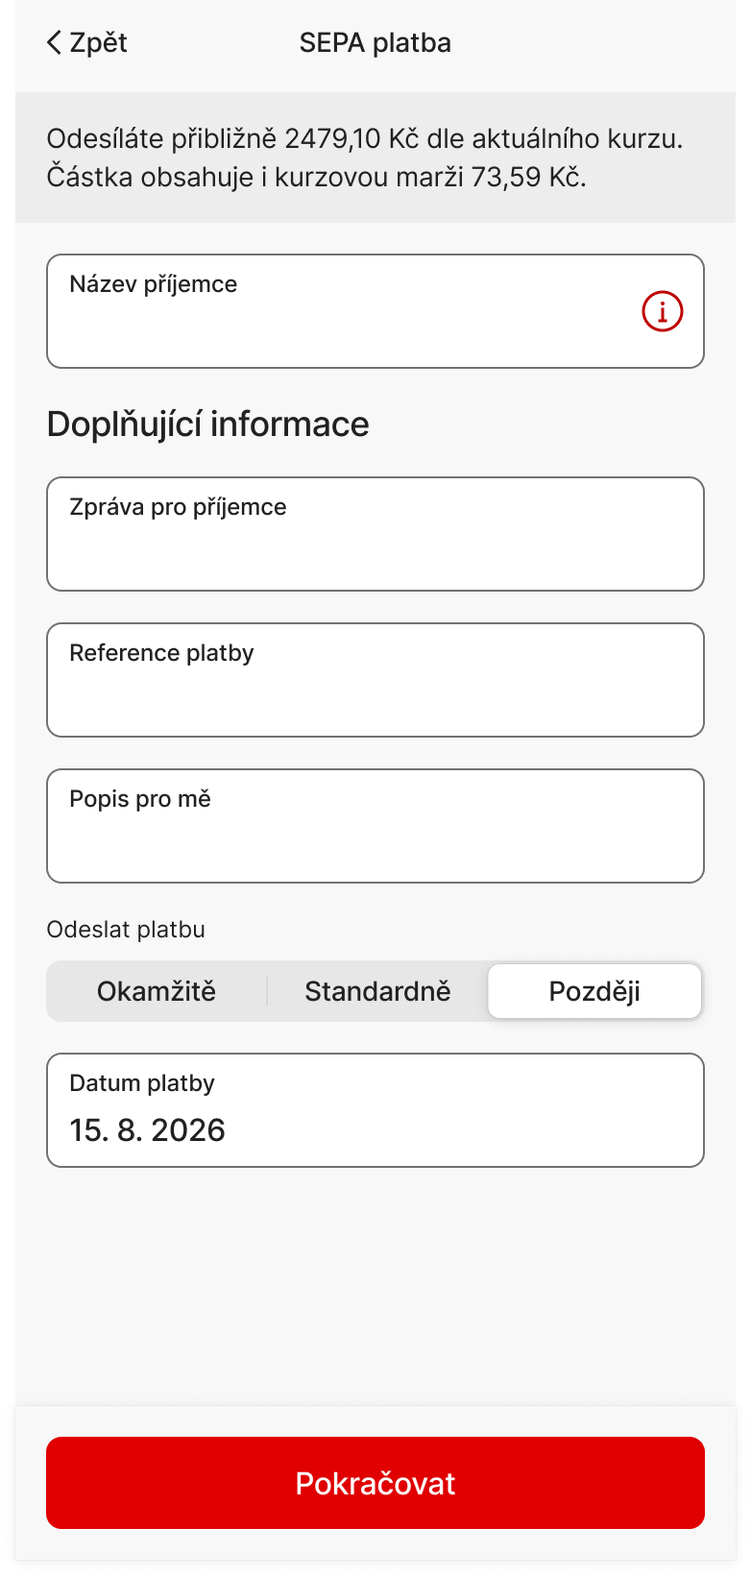
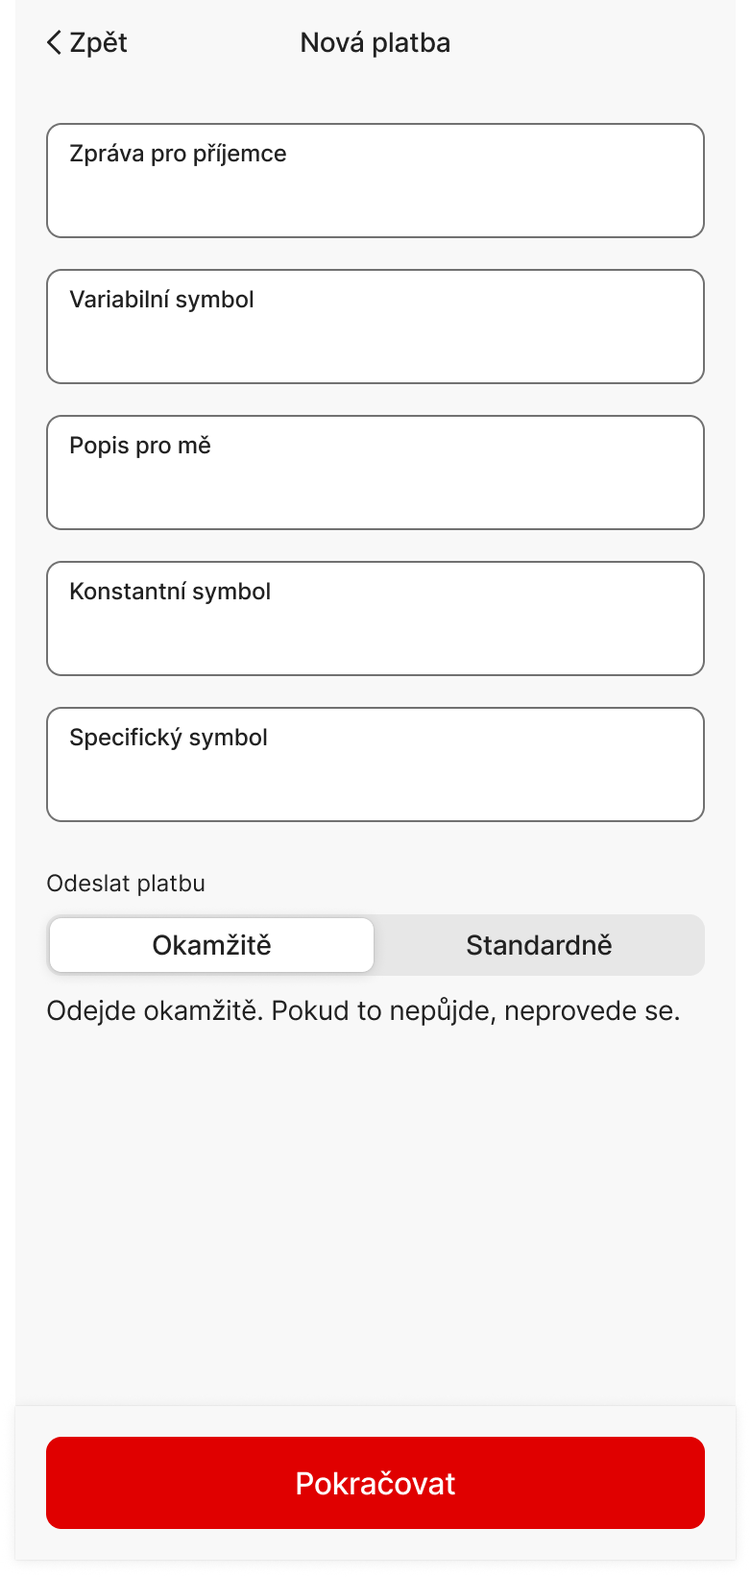
docs: reassess instant payment controls

diff --git a/Platby/Okamžité platby/index.html b/Platby/Okamžité platby/index.html
@@ -63,8 +63,8 @@
     .variant-body{display:grid;grid-template-columns:minmax(0,1.25fr) minmax(310px,.75fr);gap:0}
     .shots{padding:24px;border-right:1px solid var(--color-background-divider);min-width:0}
     .shot-strip{display:flex;gap:12px;overflow:auto;padding:2px 2px 12px;scroll-snap-type:x mandatory;scrollbar-color:var(--color-background-border) transparent}
-    .shot-btn{padding:0;border:0;background:none;cursor:zoom-in;scroll-snap-align:start;flex:0 0 min(280px,72vw);border-radius:var(--radius-md);overflow:hidden;box-shadow:var(--shadow-panel)}
-    .shot-btn img{width:100%;height:auto;display:block;background:#f7f7f7}
+    .shot-btn{padding:0;border:0;background:#f7f7f7;cursor:zoom-in;scroll-snap-align:start;flex:0 0 min(280px,72vw);aspect-ratio:782/1642;border-radius:var(--radius-md);overflow:hidden;box-shadow:var(--shadow-panel)}
+    .shot-btn img{width:100%;height:100%;object-fit:contain;object-position:top;display:block;background:#f7f7f7}
     .shot-count{font-size:12px;color:var(--color-content-tertiary);margin-top:8px}
     .assessment{padding:24px;display:grid;gap:24px;align-content:start}
     .pm h4,.fit h4{font-size:12px;line-height:16px;text-transform:uppercase;letter-spacing:.06em;margin:0 0 10px;color:var(--color-content-tertiary)}
@@ -81,7 +81,7 @@
     .phone-stage{background:#e7e7e7;padding:24px;border-radius:var(--radius-md);position:relative}
     .phone{width:min(390px,100%);margin:0 auto;background:var(--color-background-body);border:8px solid #1f1f1f;border-radius:36px;overflow:hidden;min-height:650px;box-shadow:0 22px 50px rgba(0,0,0,.16);position:relative}
     .phone-head{height:52px;display:grid;grid-template-columns:1fr auto 1fr;align-items:center;padding:0 16px;background:var(--color-background-body)}.phone-head button{border:0;background:transparent;padding:8px 0;text-align:left}.phone-head strong{font-size:17px;font-weight:500}.phone-content{padding:18px 16px 116px}.field{width:100%;background:var(--color-background-surface);border:1px solid var(--color-background-border);border-radius:var(--radius-md);padding:12px 14px;text-align:left;display:flex;align-items:center;justify-content:space-between;gap:14px;min-height:68px;color:var(--color-content-primary)}.field-label{display:block;font-size:12px;color:var(--color-content-tertiary);margin-bottom:2px}.field-value{display:block;font-size:17px;line-height:24px;font-weight:500}.chev{font-size:22px;color:var(--color-content-tertiary)}
-    .explain{font-size:13px;line-height:19px;color:var(--color-content-secondary);margin:10px 2px 18px}.safety{display:flex;align-items:flex-start;justify-content:space-between;gap:14px;background:var(--color-background-surface);border:1px solid var(--color-background-border);border-radius:var(--radius-md);padding:14px}.safety strong{font-size:15px;line-height:21px;display:block}.safety span{font-size:12px;line-height:17px;color:var(--color-content-tertiary);display:block;margin-top:3px}.switch{position:relative;flex:0 0 auto;width:48px;height:28px;border:0;border-radius:999px;background:var(--color-background-border);padding:0;transition:.18s}.switch::after{content:"";position:absolute;width:22px;height:22px;background:#fff;border-radius:50%;top:3px;left:3px;box-shadow:0 1px 4px rgba(0,0,0,.22);transition:.18s}.switch[aria-checked="true"]{background:var(--color-interactive-primary)}.switch[aria-checked="true"]::after{transform:translateX(20px)}
+    .explain{font-size:13px;line-height:19px;color:var(--color-content-secondary);margin:10px 2px 18px}
     .phone-bottom{position:absolute;left:0;right:0;bottom:0;padding:14px 16px 20px;background:var(--color-background-surface);box-shadow:var(--shadow-panel)}.primary{width:100%;height:48px;border:0;border-radius:var(--radius-md);background:var(--color-interactive-primary);color:var(--color-interactive-on-primary);font-weight:500}
     .sheet{position:absolute;inset:0;background:rgba(0,0,0,.34);display:flex;align-items:flex-end;z-index:4;opacity:0;pointer-events:none;transition:.18s}.sheet.open{opacity:1;pointer-events:auto}.sheet-card{width:100%;background:var(--color-dialog-surface);border-radius:20px 20px 0 0;padding:8px 16px 24px;transform:translateY(24px);transition:.18s}.sheet.open .sheet-card{transform:none}.grab{width:36px;height:4px;border-radius:3px;background:var(--color-background-border);margin:0 auto 18px}.sheet h4{font-size:20px;line-height:28px;margin:0 0 10px}.option{width:100%;border:0;border-top:1px solid var(--color-background-divider);background:transparent;padding:14px 0;display:grid;grid-template-columns:1fr auto;text-align:left;gap:12px}.option:first-of-type{border-top:0}.option strong{display:block;font-size:16px;line-height:22px}.option span{display:block;color:var(--color-content-tertiary);font-size:12px;line-height:17px;margin-top:2px}.radio{width:22px;height:22px;border-radius:50%;border:2px solid var(--color-background-border);margin-top:2px}.option.selected .radio{border:6px solid var(--color-interactive-primary)}.date-box{display:none;margin:4px 0 14px}.date-box.show{display:block}.date-box label{display:block;font-size:12px;color:var(--color-content-tertiary);margin-bottom:6px}.date-box input{width:100%;height:48px;border:1px solid var(--color-background-border);border-radius:var(--radius-md);background:var(--color-background-surface);padding:0 12px;color:var(--color-content-primary)}
 
@@ -110,8 +110,8 @@
     <div class="hero">
       <div class="wrap">
         <p class="eyebrow">Design review · 31. 7. 2026</p>
-        <h1>Tři scénáře.<br>Dvě rozhodnutí.</h1>
-        <p class="hero-copy">Uživatel ve skutečnosti nerozhoduje mezi třemi technickými typy platby. Rozhoduje <strong>kdy</strong> má platba odejít a <strong>co se má stát, když okamžité odeslání selže</strong>.</p>
+        <h1>Tři scénáře.<br>Jeden výběr.</h1>
+        <p class="hero-copy">Uživatel potřebuje vybrat výsledné chování platby. Interní závislost mezi datem, okamžitým zpracováním a fallbackem nemá řešit dvěma propojenými ovladači.</p>
         <div class="thesis" aria-label="Požadované scénáře">
           <article class="thesis-item"><span class="thesis-no">01</span><strong>Pouze okamžitě</strong><p>Buď dorazí během několika sekund, nebo se vůbec neprovede.</p></article>
           <article class="thesis-item"><span class="thesis-no">02</span><strong>Co nejdříve</strong><p>Nejdřív okamžitě. Když to nejde, automaticky standardně.</p></article>
@@ -124,7 +124,7 @@
       <div class="wrap">
         <div class="section-head"><h2>Vzorové persony</h2><p>Persony pokrývají běžnou platbu, časově kritickou platbu a plánování. Nejsou výsledkem terénního výzkumu; slouží jako konzistentní hodnoticí optika návrhů.</p></div>
         <div class="persona-grid">
-          <article class="persona"><div class="persona-top"><div class="avatar" aria-hidden="true">J</div><div><h3>Jana, 32</h3><div class="persona-role">Příležitostná uživatelka</div></div></div><dl><dt>Cíl</dt><dd>Zaplatit rychle bez přemýšlení o bankovním zpracování.</dd><dt>Chování</dt><dd>Platby zadává několikrát měsíčně. Nezná rozdíl mezi okamžitou a standardní platbou.</dd><dt>Riziko</dt><dd>„Standardně“ může chápat jako doporučenou nebo nejbezpečnější volbu.</dd></dl><p class="persona-quote">„Pošli to co nejrychleji a hlavně mě nezdržuj.“</p></article>
+          <article class="persona"><div class="persona-top"><div class="avatar" aria-hidden="true">J</div><div><h3>Jana, 32</h3><div class="persona-role">Příležitostná uživatelka</div></div></div><dl><dt>Cíl</dt><dd>Zaplatit rychle bez přemýšlení o bankovním zpracování.</dd><dt>Chování</dt><dd>Platby zadává několikrát měsíčně. Nezná rozdíl mezi okamžitou a standardní platbou.</dd><dt>Riziko</dt><dd>Pokud vidí „Co nejdříve“ a vedle toho switch „Okamžitá platba“, oba ovladače jí slibují totéž.</dd></dl><p class="persona-quote">„Pošli to co nejrychleji a hlavně mě nezdržuj.“</p></article>
           <article class="persona"><div class="persona-top"><div class="avatar" aria-hidden="true">P</div><div><h3>Petr, 44</h3><div class="persona-role">OSVČ, platba na deadline</div></div></div><dl><dt>Cíl</dt><dd>Mít jistotu, že dodavatel dostane peníze právě teď.</dd><dt>Chování</dt><dd>Rozumí okamžitým platbám. Při neúspěchu chce zvolit jiný způsob úhrady.</dd><dt>Riziko</dt><dd>Automatický fallback na standardní platbu mu může způsobit dvojí úhradu.</dd></dl><p class="persona-quote">„Když to nejde hned, neposílej nic.“</p></article>
           <article class="persona"><div class="persona-top"><div class="avatar" aria-hidden="true">E</div><div><h3>Eva, 51</h3><div class="persona-role">Spravuje rodinné finance</div></div></div><dl><dt>Cíl</dt><dd>Naplánovat platbu na den, kdy přijde příjem.</dd><dt>Chování</dt><dd>Pracuje s konkrétními daty. Rychlost v okamžiku zadání není důležitá.</dd><dt>Riziko</dt><dd>Pojmy „okamžitě“ a „později“ v jednom ovladači mohou míchat datum a způsob zpracování.</dd></dl><p class="persona-quote">„Odešli to patnáctého, ne dnes.“</p></article>
         </div>
@@ -133,10 +133,11 @@
 
     <section id="varianty">
       <div class="wrap">
-        <div class="section-head"><h2>Porovnání návrhů</h2><p>Skóre 1–5 hodnotí srozumitelnost, rychlost běžného scénáře, prevenci chyb, podporu všech scénářů a snadnost naučení. Výsledek je expertní heuristika, ne výsledek uživatelského testu.</p></div>
+        <div class="section-head"><h2>Porovnání návrhů</h2><p>Skóre 1–5 hodnotí srozumitelnost, rychlost běžného scénáře, prevenci chyb, podporu všech scénářů a snadnost naučení. Nové hodnocení kombinuje expertní heuristiku s dodaným výsledkem uživatelského testu.</p></div>
+        <div class="note" style="margin:0 0 32px"><strong>Klíčový výsledek uživatelského testu:</strong><br><span style="color:var(--color-content-secondary)">Při segmentu „Co nejdříve“ a samostatném switchi „Okamžitá platba“ uživatelé nerozuměli rozdílu. Proto penalizujeme návrhy se dvěma závislými ovladači a preferujeme jeden výběr popsaný výsledkem.</span></div>
         <div class="variant-stack">
           <article class="variant">
-            <div class="variant-header"><div><div class="variant-kicker">Varianta 1</div><h3>Tři segmenty s vysvětlením</h3><p class="variant-summary">Okamžitě · Standardně · Později. Aktivní volba může zobrazit doplňující vysvětlení nebo datum.</p></div><div class="score"><strong>19</strong><span>z 25 bodů</span></div></div>
+            <div class="variant-header"><div><div class="variant-kicker">Varianta 1</div><h3>Tři segmenty s vysvětlením</h3><p class="variant-summary">Okamžitě · Standardně · Později. Aktivní volba zobrazí doplňující vysvětlení nebo datum.</p></div><div class="score"><strong>17</strong><span>z 25 bodů</span></div></div>
             <div class="variant-body"><div class="shots"><div class="shot-strip">
               <button class="shot-btn" data-full="assets/varianta-1-01.png" aria-label="Zvětšit variantu 1, obrazovku 1"><img loading="lazy" src="assets/varianta-1-01.png?v=1" alt="Varianta 1 – segmenty Okamžitě, Standardně, Později"></button>
               <button class="shot-btn" data-full="assets/varianta-1-02.png" aria-label="Zvětšit variantu 1, obrazovku 2"><img loading="lazy" src="assets/varianta-1-02.png?v=1" alt="Varianta 1 – standardní platba"></button>
@@ -144,52 +145,52 @@
               <button class="shot-btn" data-full="assets/varianta-1-04.png" aria-label="Zvětšit variantu 1, obrazovku 4"><img loading="lazy" src="assets/varianta-1-04.png?v=1" alt="Varianta 1 – pozdější platba"></button>
               <button class="shot-btn" data-full="assets/varianta-1-05.png" aria-label="Zvětšit variantu 1, obrazovku 5"><img loading="lazy" src="assets/varianta-1-05.png?v=1" alt="Varianta 1 – pozdější platba s datem"></button>
             </div><div class="shot-count">5 dodaných obrazovek · klepnutím zvětšit</div></div>
-            <div class="assessment"><div class="pm"><h4>Plusy</h4><ul class="pm-list plus"><li>Všechny tři scénáře viditelné najednou.</li><li>Vysvětlení pod ovladačem snižuje nejistotu.</li><li>Přímý přístup bez dalšího kroku.</li></ul></div><div class="pm"><h4>Mínusy</h4><ul class="pm-list minus"><li>„Standardně“ popisuje bankovní mechanismus, ne záměr uživatele.</li><li>Segment míchá rychlost odeslání a plánování data.</li><li>Tři volby zvyšují kognitivní zátěž u nejčastějšího scénáře.</li></ul></div><div class="fit"><h4>Vhodnost pro persony</h4><div class="fit-row"><span>Jana</span><span class="fit-dots" aria-label="3 z 5"><i class="fit-dot on"></i><i class="fit-dot on"></i><i class="fit-dot on"></i><i class="fit-dot"></i><i class="fit-dot"></i></span></div><div class="fit-row"><span>Petr</span><span class="fit-dots" aria-label="5 z 5"><i class="fit-dot on"></i><i class="fit-dot on"></i><i class="fit-dot on"></i><i class="fit-dot on"></i><i class="fit-dot on"></i></span></div><div class="fit-row"><span>Eva</span><span class="fit-dots" aria-label="4 z 5"><i class="fit-dot on"></i><i class="fit-dot on"></i><i class="fit-dot on"></i><i class="fit-dot on"></i><i class="fit-dot"></i></span></div></div></div></div>
+            <div class="assessment"><div class="pm"><h4>Plusy</h4><ul class="pm-list plus"><li>Všechny tři scénáře viditelné najednou.</li><li>Vysvětlení pod ovladačem snižuje nejistotu.</li><li>Přímý přístup bez dalšího kroku.</li></ul></div><div class="pm"><h4>Mínusy</h4><ul class="pm-list minus"><li>„Standardně“ popisuje mechanismus, přesto může platba odejít okamžitě.</li><li>Segment míchá rychlost zpracování a plánování data.</li><li>„Okamžitě“ a „Standardně“ vyžadují znalost fallbacku, kterou uživatelé nemusí mít.</li></ul></div><div class="fit"><h4>Vhodnost pro persony</h4><div class="fit-row"><span>Jana</span><span class="fit-dots" aria-label="2 z 5"><i class="fit-dot on"></i><i class="fit-dot on"></i><i class="fit-dot"></i><i class="fit-dot"></i><i class="fit-dot"></i></span></div><div class="fit-row"><span>Petr</span><span class="fit-dots" aria-label="5 z 5"><i class="fit-dot on"></i><i class="fit-dot on"></i><i class="fit-dot on"></i><i class="fit-dot on"></i><i class="fit-dot on"></i></span></div><div class="fit-row"><span>Eva</span><span class="fit-dots" aria-label="4 z 5"><i class="fit-dot on"></i><i class="fit-dot on"></i><i class="fit-dot on"></i><i class="fit-dot on"></i><i class="fit-dot"></i></span></div></div></div></div>
           </article>
 
           <article class="variant">
-            <div class="variant-header"><div><div class="variant-kicker">Varianta 2</div><h3>Tři segmenty bez vysvětlení</h3><p class="variant-summary">Stejný přímý výběr, ale bez kontextové věty pod ovladačem.</p></div><div class="score"><strong>16</strong><span>z 25 bodů</span></div></div>
-            <div class="variant-body"><div class="shots"><div class="shot-strip"><button class="shot-btn" data-full="assets/varianta-2-01.png" aria-label="Zvětšit variantu 2, obrazovku 1"><img loading="lazy" src="assets/varianta-2-01.png?v=1" alt="Varianta 2 – tři segmenty a datum"></button><button class="shot-btn" data-full="assets/varianta-2-02.png" aria-label="Zvětšit variantu 2, obrazovku 2"><img loading="lazy" src="assets/varianta-2-02.png?v=1" alt="Varianta 2 – pozdější platba"></button></div><div class="shot-count">2 dodané obrazovky · klepnutím zvětšit</div></div>
-            <div class="assessment"><div class="pm"><h4>Plusy</h4><ul class="pm-list plus"><li>Kompaktní a rychlá volba.</li><li>Datum se zobrazí jen při volbě Později.</li></ul></div><div class="pm"><h4>Mínusy</h4><ul class="pm-list minus"><li>Není zřejmé, zda „Standardně“ nejdřív zkusí okamžitou platbu.</li><li>Chybí popis důsledku selhání okamžité platby.</li><li>Technické pojmy zůstávají bez vysvětlení.</li></ul></div><div class="fit"><h4>Vhodnost pro persony</h4><div class="fit-row"><span>Jana</span><span class="fit-dots" aria-label="2 z 5"><i class="fit-dot on"></i><i class="fit-dot on"></i><i class="fit-dot"></i><i class="fit-dot"></i><i class="fit-dot"></i></span></div><div class="fit-row"><span>Petr</span><span class="fit-dots" aria-label="4 z 5"><i class="fit-dot on"></i><i class="fit-dot on"></i><i class="fit-dot on"></i><i class="fit-dot on"></i><i class="fit-dot"></i></span></div><div class="fit-row"><span>Eva</span><span class="fit-dots" aria-label="4 z 5"><i class="fit-dot on"></i><i class="fit-dot on"></i><i class="fit-dot on"></i><i class="fit-dot on"></i><i class="fit-dot"></i></span></div></div></div></div>
+            <div class="variant-header"><div><div class="variant-kicker">Varianta 2</div><h3>Dva režimy a samostatné datum</h3><p class="variant-summary">Okamžitě znamená bez fallbacku. Standardně nejdřív zkusí okamžitou platbu a při neúspěchu pokračuje běžně. Pozdější odeslání řeší pole Datum platby.</p></div><div class="score"><strong>19</strong><span>z 25 bodů</span></div></div>
+            <div class="variant-body"><div class="shots"><div class="shot-strip"><button class="shot-btn" data-full="assets/varianta-2-01.png?v=2" aria-label="Zvětšit variantu 2, obrazovku 1"><img loading="lazy" src="assets/varianta-2-01.png?v=2" alt="Varianta 2 – režim Okamžitě bez standardního fallbacku"></button><button class="shot-btn" data-full="assets/varianta-2-02.png?v=2" aria-label="Zvětšit variantu 2, obrazovku 2"><img loading="lazy" src="assets/varianta-2-02.png?v=2" alt="Varianta 2 – režim Standardně s okamžitým pokusem a datem platby"></button></div><div class="shot-count">2 opravené obrazovky · klepnutím zvětšit</div></div>
+            <div class="assessment"><div class="pm"><h4>Plusy</h4><ul class="pm-list plus"><li>Důsledek režimu Okamžitě je popsán jednoznačně.</li><li>Hybridní fallback má vlastní vysvětlující větu.</li><li>Datum řeší plánování přímo a známým patternem.</li></ul></div><div class="pm"><h4>Mínusy</h4><ul class="pm-list minus"><li>Název „Standardně“ je zavádějící: systém se nejdřív pokusí o okamžitou platbu.</li><li>Uživatel musí pochopit vztah mezi režimem a polem Datum platby.</li><li>Při volbě Okamžitě není jasné, zda lze nastavit budoucí datum.</li></ul></div><div class="fit"><h4>Vhodnost pro persony</h4><div class="fit-row"><span>Jana</span><span class="fit-dots" aria-label="3 z 5"><i class="fit-dot on"></i><i class="fit-dot on"></i><i class="fit-dot on"></i><i class="fit-dot"></i><i class="fit-dot"></i></span></div><div class="fit-row"><span>Petr</span><span class="fit-dots" aria-label="5 z 5"><i class="fit-dot on"></i><i class="fit-dot on"></i><i class="fit-dot on"></i><i class="fit-dot on"></i><i class="fit-dot on"></i></span></div><div class="fit-row"><span>Eva</span><span class="fit-dots" aria-label="4 z 5"><i class="fit-dot on"></i><i class="fit-dot on"></i><i class="fit-dot on"></i><i class="fit-dot on"></i><i class="fit-dot"></i></span></div></div></div></div>
           </article>
 
           <article class="variant">
-            <div class="variant-header"><div><div class="variant-kicker">Varianta 3</div><h3>Jedno pole „Odeslat platbu“</h3><p class="variant-summary">Na formuláři zůstává jedna souhrnná hodnota. Volby se otevřou až po klepnutí.</p></div><div class="score"><strong>21</strong><span>z 25 bodů</span></div></div>
+            <div class="variant-header"><div><div class="variant-kicker">Varianta 3</div><h3>Jedno pole a výběrový panel</h3><p class="variant-summary">Na formuláři zůstává jedna souhrnná hodnota. Panel po klepnutí nabídne Co nejdříve, Později a Okamžitě včetně popisu.</p></div><div class="score"><strong>22</strong><span>z 25 bodů</span></div></div>
             <div class="variant-body"><div class="shots"><div class="shot-strip"><button class="shot-btn" data-full="assets/varianta-3-01.png" aria-label="Zvětšit variantu 3, obrazovku 1"><img loading="lazy" src="assets/varianta-3-01.png?v=1" alt="Varianta 3 – pole Odeslat platbu, Co nejdříve"></button><button class="shot-btn" data-full="assets/varianta-3-02.png" aria-label="Zvětšit variantu 3, obrazovku 2"><img loading="lazy" src="assets/varianta-3-02.png?v=1" alt="Varianta 3 – Co nejdříve"></button><button class="shot-btn" data-full="assets/varianta-3-03.png" aria-label="Zvětšit variantu 3, obrazovku 3"><img loading="lazy" src="assets/varianta-3-03.png?v=1" alt="Varianta 3 – Později a datum platby"></button><button class="shot-btn" data-full="assets/varianta-3-04.png" aria-label="Zvětšit variantu 3, obrazovku 4"><img loading="lazy" src="assets/varianta-3-04.png?v=1" alt="Varianta 3 – výběrový panel Co nejdříve, Později a Okamžitě"></button></div><div class="shot-count">4 dodané obrazovky · klepnutím zvětšit</div></div>
-            <div class="assessment"><div class="pm"><h4>Plusy</h4><ul class="pm-list plus"><li>Nejméně vizuálního šumu ve formuláři.</li><li>„Co nejdříve“ odpovídá záměru běžného uživatele.</li><li>Dobře škáluje pro další podmínky nebo typy platby.</li></ul></div><div class="pm"><h4>Mínusy</h4><ul class="pm-list minus"><li>Chování při selhání okamžité platby není viditelné.</li><li>Volba „pouze okamžitě“ vyžaduje další úroveň.</li><li>Pole musí jasně působit jako interaktivní.</li></ul></div><div class="fit"><h4>Vhodnost pro persony</h4><div class="fit-row"><span>Jana</span><span class="fit-dots" aria-label="5 z 5"><i class="fit-dot on"></i><i class="fit-dot on"></i><i class="fit-dot on"></i><i class="fit-dot on"></i><i class="fit-dot on"></i></span></div><div class="fit-row"><span>Petr</span><span class="fit-dots" aria-label="3 z 5"><i class="fit-dot on"></i><i class="fit-dot on"></i><i class="fit-dot on"></i><i class="fit-dot"></i><i class="fit-dot"></i></span></div><div class="fit-row"><span>Eva</span><span class="fit-dots" aria-label="5 z 5"><i class="fit-dot on"></i><i class="fit-dot on"></i><i class="fit-dot on"></i><i class="fit-dot on"></i><i class="fit-dot on"></i></span></div></div></div></div>
+            <div class="assessment"><div class="pm"><h4>Plusy</h4><ul class="pm-list plus"><li>Jeden ovladač na hlavní obrazovce; žádná závislost se switchem.</li><li>Všechny tři výsledky jsou vysvětlené na jednom místě.</li><li>„Co nejdříve“ odpovídá záměru běžného uživatele.</li></ul></div><div class="pm"><h4>Mínusy</h4><ul class="pm-list minus"><li>Současný popis „Co nejdříve“ mluví jen o standardním zpracování a neříká, že se nejdřív zkusí okamžité.</li><li>Samotné názvy „Co nejdříve“ a „Okamžitě“ jsou významově blízko.</li><li>„Okamžitě“ potřebuje zpřesnit na „Pouze okamžitě“.</li></ul></div><div class="fit"><h4>Vhodnost pro persony</h4><div class="fit-row"><span>Jana</span><span class="fit-dots" aria-label="4 z 5"><i class="fit-dot on"></i><i class="fit-dot on"></i><i class="fit-dot on"></i><i class="fit-dot on"></i><i class="fit-dot"></i></span></div><div class="fit-row"><span>Petr</span><span class="fit-dots" aria-label="4 z 5"><i class="fit-dot on"></i><i class="fit-dot on"></i><i class="fit-dot on"></i><i class="fit-dot on"></i><i class="fit-dot"></i></span></div><div class="fit-row"><span>Eva</span><span class="fit-dots" aria-label="5 z 5"><i class="fit-dot on"></i><i class="fit-dot on"></i><i class="fit-dot on"></i><i class="fit-dot on"></i><i class="fit-dot on"></i></span></div></div></div></div>
           </article>
 
           <article class="variant">
-            <div class="variant-header"><div><div class="variant-kicker">Varianta 4</div><h3>Datum a okamžitost v jednom dialogu</h3><p class="variant-summary">Kliknutí na pole otevře kalendář. Přepínač „Okamžitá platba“ nastavuje tvrdou podmínku.</p></div><div class="score"><strong>17</strong><span>z 25 bodů</span></div></div>
+            <div class="variant-header"><div><div class="variant-kicker">Varianta 4</div><h3>Datum a okamžitost v jednom dialogu</h3><p class="variant-summary">Kliknutí na pole otevře kalendář. Samostatný switch „Okamžitá platba“ nastavuje tvrdou podmínku.</p></div><div class="score"><strong>13</strong><span>z 25 bodů</span></div></div>
             <div class="variant-body"><div class="shots"><div class="shot-strip"><button class="shot-btn" data-full="assets/varianta-4-01.png" aria-label="Zvětšit variantu 4, obrazovku 1"><img loading="lazy" src="assets/varianta-4-01.png?v=1" alt="Varianta 4 – pole Odeslat platbu Okamžitě"></button><button class="shot-btn" data-full="assets/varianta-4-02.png" aria-label="Zvětšit variantu 4, obrazovku 2"><img loading="lazy" src="assets/varianta-4-02.png?v=1" alt="Varianta 4 – kalendář a přepínač okamžité platby"></button></div><div class="shot-count">2 dodané obrazovky · klepnutím zvětšit</div></div>
-            <div class="assessment"><div class="pm"><h4>Plusy</h4><ul class="pm-list plus"><li>Datum i režim lze nastavit na jednom místě.</li><li>Důsledek zapnutého přepínače je popsán přesně.</li><li>Dobrá podpora plánované okamžité platby, pokud ji systém umí.</li></ul></div><div class="pm"><h4>Mínusy</h4><ul class="pm-list minus"><li>Kalendář se otevírá i pro změnu, která s datem nesouvisí.</li><li>Zapnutý přepínač u budoucího data může vytvářet falešnou jistotu.</li><li>„Okamžitě“ v poli může znamenat dnes i technický způsob odeslání.</li></ul></div><div class="fit"><h4>Vhodnost pro persony</h4><div class="fit-row"><span>Jana</span><span class="fit-dots" aria-label="2 z 5"><i class="fit-dot on"></i><i class="fit-dot on"></i><i class="fit-dot"></i><i class="fit-dot"></i><i class="fit-dot"></i></span></div><div class="fit-row"><span>Petr</span><span class="fit-dots" aria-label="4 z 5"><i class="fit-dot on"></i><i class="fit-dot on"></i><i class="fit-dot on"></i><i class="fit-dot on"></i><i class="fit-dot"></i></span></div><div class="fit-row"><span>Eva</span><span class="fit-dots" aria-label="3 z 5"><i class="fit-dot on"></i><i class="fit-dot on"></i><i class="fit-dot on"></i><i class="fit-dot"></i><i class="fit-dot"></i></span></div></div></div></div>
+            <div class="assessment"><div class="pm"><h4>Plusy</h4><ul class="pm-list plus"><li>Datum i režim lze nastavit na jednom místě.</li><li>Důsledek zapnutého switche je popsán přesně.</li><li>Podporuje plánovanou okamžitou platbu, pokud ji systém umí.</li></ul></div><div class="pm"><h4>Mínusy</h4><ul class="pm-list minus"><li>Přímo opakuje neúspěšný testovaný pattern: časová volba a závislý switch.</li><li>„Okamžitě“ může znamenat dnešní datum i technický způsob zpracování.</li><li>Zapnutý switch u budoucího data může vytvářet falešnou jistotu.</li></ul></div><div class="fit"><h4>Vhodnost pro persony</h4><div class="fit-row"><span>Jana</span><span class="fit-dots" aria-label="1 z 5"><i class="fit-dot on"></i><i class="fit-dot"></i><i class="fit-dot"></i><i class="fit-dot"></i><i class="fit-dot"></i></span></div><div class="fit-row"><span>Petr</span><span class="fit-dots" aria-label="3 z 5"><i class="fit-dot on"></i><i class="fit-dot on"></i><i class="fit-dot on"></i><i class="fit-dot"></i><i class="fit-dot"></i></span></div><div class="fit-row"><span>Eva</span><span class="fit-dots" aria-label="2 z 5"><i class="fit-dot on"></i><i class="fit-dot on"></i><i class="fit-dot"></i><i class="fit-dot"></i><i class="fit-dot"></i></span></div></div></div></div>
           </article>
 
           <article class="variant recommended">
-            <div class="variant-header"><div><div class="variant-kicker"><span class="tag">Doporučeno</span></div><h3>Varianta 5: kdy + bezpečnostní podmínka</h3><p class="variant-summary">Jedno pole řeší čas. Kontextový přepínač řeší jedinou výjimku: zda při neúspěchu okamžité platby smí systém pokračovat standardně.</p></div><div class="score"><strong>24</strong><span>z 25 bodů</span></div></div>
-            <div class="variant-body"><div class="shots" style="display:grid;place-items:center;min-height:310px"><div class="decision-map" style="width:min(520px,100%)"><div class="map-row"><div class="map-label">Výchozí</div><div><strong>Co nejdříve</strong><p>Zkusit okamžitě. Pokud to nejde, odeslat standardně.</p></div></div><div class="map-row"><div class="map-label">Výjimka</div><div><strong>Pouze okamžitě</strong><p>Pokud okamžitá platba nejde, nic neodesílat.</p></div></div><div class="map-row"><div class="map-label">Plán</div><div><strong>Později · datum</strong><p>Odeslat ve zvolený den podle pravidel produktu.</p></div></div></div></div>
-            <div class="assessment"><div class="pm"><h4>Plusy</h4><ul class="pm-list plus"><li>Dvě rozhodnutí přesně odpovídají mentálnímu modelu.</li><li>Nejčastější hybridní scénář nevyžaduje žádnou volbu navíc.</li><li>Riziková výjimka je explicitní a popsaná důsledkem.</li><li>Datum se zobrazuje jen při plánování.</li></ul></div><div class="pm"><h4>Mínusy</h4><ul class="pm-list minus"><li>Petr musí zapnout jednu doplňkovou volbu.</li><li>Je nutné ověřit, zda má být výjimka dostupná i pro budoucí datum.</li></ul></div><div class="fit"><h4>Vhodnost pro persony</h4><div class="fit-row"><span>Jana</span><span class="fit-dots" aria-label="5 z 5"><i class="fit-dot on"></i><i class="fit-dot on"></i><i class="fit-dot on"></i><i class="fit-dot on"></i><i class="fit-dot on"></i></span></div><div class="fit-row"><span>Petr</span><span class="fit-dots" aria-label="5 z 5"><i class="fit-dot on"></i><i class="fit-dot on"></i><i class="fit-dot on"></i><i class="fit-dot on"></i><i class="fit-dot on"></i></span></div><div class="fit-row"><span>Eva</span><span class="fit-dots" aria-label="5 z 5"><i class="fit-dot on"></i><i class="fit-dot on"></i><i class="fit-dot on"></i><i class="fit-dot on"></i><i class="fit-dot on"></i></span></div></div></div></div>
+            <div class="variant-header"><div><div class="variant-kicker"><span class="tag">Doporučeno</span></div><h3>Varianta 5: jeden výběr, tři výsledky</h3><p class="variant-summary">Evoluce varianty 3. Jedno pole otevře panel se třemi vzájemně výlučnými možnostmi. Žádný další switch ani segment.</p></div><div class="score"><strong>24</strong><span>z 25 bodů</span></div></div>
+            <div class="variant-body"><div class="shots" style="display:grid;place-items:center;min-height:310px"><div class="decision-map" style="width:min(520px,100%)"><div class="map-row"><div class="map-label">Výchozí</div><div><strong>Co nejdříve</strong><p>Nejdřív zkusit okamžitě. Když to nejde, odeslat standardně.</p></div></div><div class="map-row"><div class="map-label">Plán</div><div><strong>Později</strong><p>Vybrat konkrétní datum odeslání.</p></div></div><div class="map-row"><div class="map-label">Výjimka</div><div><strong>Pouze okamžitě</strong><p>Pokud okamžitá platba nejde, nic neodesílat.</p></div></div></div></div>
+            <div class="assessment"><div class="pm"><h4>Plusy</h4><ul class="pm-list plus"><li>Jeden mentální model a jeden ovladač.</li><li>Odstraňuje testovanou nejasnost mezi segmentem a switchem.</li><li>Každá možnost popisuje výsledek, ne interní mechanismus.</li><li>Výchozí hybridní scénář nevyžaduje žádnou volbu navíc.</li></ul></div><div class="pm"><h4>Mínusy</h4><ul class="pm-list minus"><li>Změna výchozího chování vyžaduje otevření panelu.</li><li>Budoucí „pouze okamžitě“ zůstává samostatným produktovým rozhodnutím.</li></ul></div><div class="fit"><h4>Vhodnost pro persony</h4><div class="fit-row"><span>Jana</span><span class="fit-dots" aria-label="5 z 5"><i class="fit-dot on"></i><i class="fit-dot on"></i><i class="fit-dot on"></i><i class="fit-dot on"></i><i class="fit-dot on"></i></span></div><div class="fit-row"><span>Petr</span><span class="fit-dots" aria-label="5 z 5"><i class="fit-dot on"></i><i class="fit-dot on"></i><i class="fit-dot on"></i><i class="fit-dot on"></i><i class="fit-dot on"></i></span></div><div class="fit-row"><span>Eva</span><span class="fit-dots" aria-label="5 z 5"><i class="fit-dot on"></i><i class="fit-dot on"></i><i class="fit-dot on"></i><i class="fit-dot on"></i><i class="fit-dot on"></i></span></div></div></div></div>
           </article>
         </div>
 
         <h3 style="font-size:24px;margin:40px 0 16px">Souhrnné skóre</h3>
-        <div class="matrix-wrap"><table><thead><tr><th>Varianta</th><th class="num">Srozumitelnost</th><th class="num">Rychlost</th><th class="num">Prevence chyb</th><th class="num">Pokrytí scénářů</th><th class="num">Naučitelnost</th><th class="num">Celkem</th></tr></thead><tbody><tr><td>1 · Tři segmenty + vysvětlení</td><td class="num">4</td><td class="num">4</td><td class="num">4</td><td class="num">4</td><td class="num">3</td><td class="num total">19</td></tr><tr><td>2 · Tři segmenty bez vysvětlení</td><td class="num">3</td><td class="num">4</td><td class="num">2</td><td class="num">4</td><td class="num">3</td><td class="num total">16</td></tr><tr><td>3 · Jedno souhrnné pole</td><td class="num">4</td><td class="num">5</td><td class="num">3</td><td class="num">4</td><td class="num">5</td><td class="num total">21</td></tr><tr><td>4 · Kalendář + přepínač</td><td class="num">3</td><td class="num">3</td><td class="num">4</td><td class="num">4</td><td class="num">3</td><td class="num total">17</td></tr><tr class="winner"><td><strong>5 · Kdy + bezpečnostní podmínka</strong></td><td class="num">5</td><td class="num">5</td><td class="num">5</td><td class="num">5</td><td class="num">4</td><td class="num total">24</td></tr></tbody></table></div>
+        <div class="matrix-wrap"><table><thead><tr><th>Varianta</th><th class="num">Srozumitelnost</th><th class="num">Rychlost</th><th class="num">Prevence chyb</th><th class="num">Pokrytí scénářů</th><th class="num">Naučitelnost</th><th class="num">Celkem</th></tr></thead><tbody><tr><td>1 · Tři segmenty + vysvětlení</td><td class="num">3</td><td class="num">4</td><td class="num">3</td><td class="num">4</td><td class="num">3</td><td class="num total">17</td></tr><tr><td>2 · Dva režimy + datum</td><td class="num">3</td><td class="num">4</td><td class="num">4</td><td class="num">4</td><td class="num">4</td><td class="num total">19</td></tr><tr><td>3 · Jedno pole + panel</td><td class="num">4</td><td class="num">5</td><td class="num">4</td><td class="num">5</td><td class="num">4</td><td class="num total">22</td></tr><tr><td>4 · Kalendář + switch</td><td class="num">2</td><td class="num">3</td><td class="num">2</td><td class="num">4</td><td class="num">2</td><td class="num total">13</td></tr><tr class="winner"><td><strong>5 · Jeden výběr, tři výsledky</strong></td><td class="num">5</td><td class="num">5</td><td class="num">5</td><td class="num">5</td><td class="num">4</td><td class="num total">24</td></tr></tbody></table></div>
       </div>
     </section>
 
     <section id="doporuceni">
       <div class="wrap">
-        <div class="section-head"><h2>Doporučené řešení</h2><p>Ponechat výchozí hodnotu <strong>Co nejdříve</strong>. Banka automaticky zkusí okamžitou platbu a při neúspěchu pokračuje standardně. Pouze uživatel s tvrdou podmínkou zapne <strong>Pouze okamžitě</strong>.</p></div>
+        <div class="section-head"><h2>Doporučené řešení</h2><p>Použít jedno pole <strong>Odeslat platbu</strong>. Po otevření nabídne tři vzájemně výlučné výsledky: Co nejdříve, Později a Pouze okamžitě. Samostatný switch ani druhý segment nezobrazovat.</p></div>
         <div class="recommend-grid">
-          <div><div class="decision-map"><div class="map-row"><div class="map-label">Ovladač 1</div><div><strong>Kdy odeslat?</strong><p>Co nejdříve / Později. Řeší časový záměr, kterému rozumí každý.</p></div></div><div class="map-row"><div class="map-label">Ovladač 2</div><div><strong>Pouze okamžitě</strong><p>Volitelná bezpečnostní podmínka. Zobrazuje se jen tam, kde okamžitá platba připadá v úvahu.</p></div></div><div class="map-row"><div class="map-label">Systém</div><div><strong>Automatický hybrid</strong><p>Výchozí, bez další interakce. Odpovídá současnému patternu KB, Fio a Raiffeisenbank.</p></div></div></div><div class="note"><strong>Doporučený text:</strong><br>„Pouze okamžitě“<br><span style="color:var(--color-content-secondary)">Když okamžitá platba nepůjde, platbu neodešleme.</span></div><div class="note" style="border-left-color:var(--color-attention-processing)"><strong>Produktové rozhodnutí před implementací:</strong><br><span style="color:var(--color-content-secondary)">Určit, zda budoucí platba může být v den splatnosti odeslána pouze okamžitě. Pokud ne, přepínač při volbě Později skrýt.</span></div></div>
-          <div class="phone-stage" aria-label="Interaktivní ukázka doporučeného řešení"><div class="phone"><div class="phone-head"><button type="button" aria-label="Zpět">‹ Zpět</button><strong>SEPA platba</strong><span></span></div><div class="phone-content"><button class="field" id="timing-field" type="button" aria-haspopup="dialog" aria-expanded="false"><span><span class="field-label">Odeslat platbu</span><span class="field-value" id="timing-value">Co nejdříve</span></span><span class="chev">›</span></button><p class="explain" id="timing-help">Zkusíme ji poslat okamžitě. Pokud to nepůjde, odešleme ji standardně.</p><div class="safety" id="safety-row"><div><strong>Pouze okamžitě</strong><span>Když okamžitá platba nepůjde, platbu neodešleme.</span></div><button class="switch" id="instant-switch" role="switch" aria-checked="false" aria-label="Pouze okamžitě"></button></div></div><div class="phone-bottom"><button class="primary" type="button">Pokračovat</button></div><div class="sheet" id="timing-sheet" role="dialog" aria-modal="true" aria-labelledby="sheet-title" aria-hidden="true" inert><div class="sheet-card"><div class="grab"></div><h4 id="sheet-title">Kdy odeslat platbu?</h4><button class="option selected" type="button" data-timing="asap"><span><strong>Co nejdříve</strong><span>Zkusíme okamžitě, jinak standardně.</span></span><i class="radio" aria-hidden="true"></i></button><button class="option" type="button" data-timing="later"><span><strong>Později</strong><span>Vyberete konkrétní den.</span></span><i class="radio" aria-hidden="true"></i></button><div class="date-box" id="date-box"><label for="payment-date">Datum platby</label><input id="payment-date" type="date" value="2026-08-15" min="2026-08-01"></div><button class="primary" id="sheet-done" type="button">Potvrdit</button></div></div></div></div>
+          <div><div class="decision-map"><div class="map-row"><div class="map-label">Jeden ovladač</div><div><strong>Odeslat platbu</strong><p>Na hlavní obrazovce zobrazuje jen vybraný výsledek. Všechny možnosti jsou uvnitř jednoho panelu.</p></div></div><div class="map-row"><div class="map-label">Výchozí</div><div><strong>Co nejdříve</strong><p>Nejdřív zkusíme okamžitě. Když to nepůjde, odešleme standardně.</p></div></div><div class="map-row"><div class="map-label">Výjimka</div><div><strong>Pouze okamžitě</strong><p>Když okamžitá platba nepůjde, platbu neodešleme.</p></div></div></div><div class="note"><strong>Proč ne dva ovladače:</strong><br><span style="color:var(--color-content-secondary)">Uživatelé v testu vnímali „Co nejdříve“ a switch „Okamžitá platba“ jako dvě označení stejné věci. Závislost mezi nimi nebyla předvídatelná.</span></div><div class="note" style="border-left-color:var(--color-attention-processing)"><strong>Produktové rozhodnutí před implementací:</strong><br><span style="color:var(--color-content-secondary)">Určit chování platby naplánované na později. Pokud nemusí podporovat režim pouze okamžitě, nedoplňovat k datu žádný další ovladač.</span></div></div>
+          <div class="phone-stage" aria-label="Interaktivní ukázka doporučeného řešení"><div class="phone"><div class="phone-head"><button type="button" aria-label="Zpět">‹ Zpět</button><strong>SEPA platba</strong><span></span></div><div class="phone-content"><button class="field" id="timing-field" type="button" aria-haspopup="dialog" aria-expanded="false"><span><span class="field-label">Odeslat platbu</span><span class="field-value" id="timing-value">Co nejdříve</span></span><span class="chev">›</span></button><p class="explain" id="timing-help">Nejdřív ji zkusíme poslat okamžitě. Když to nepůjde, odešleme ji standardně.</p></div><div class="phone-bottom"><button class="primary" type="button">Pokračovat</button></div><div class="sheet" id="timing-sheet" role="dialog" aria-modal="true" aria-labelledby="sheet-title" aria-hidden="true" inert><div class="sheet-card"><div class="grab"></div><h4 id="sheet-title">Jak platbu odeslat?</h4><button class="option selected" type="button" data-timing="asap"><span><strong>Co nejdříve</strong><span>Nejdřív okamžitě. Když to nepůjde, standardně.</span></span><i class="radio" aria-hidden="true"></i></button><button class="option" type="button" data-timing="later"><span><strong>Později</strong><span>Vyberete konkrétní den odeslání.</span></span><i class="radio" aria-hidden="true"></i></button><div class="date-box" id="date-box"><label for="payment-date">Datum platby</label><input id="payment-date" type="date" value="2026-08-15" min="2026-08-01"></div><button class="option" type="button" data-timing="instant"><span><strong>Pouze okamžitě</strong><span>Když to nepůjde během několika sekund, platbu neodešleme.</span></span><i class="radio" aria-hidden="true"></i></button><button class="primary" id="sheet-done" type="button">Potvrdit</button></div></div></div></div>
         </div>
       </div>
     </section>
 
     <section id="trh">
       <div class="wrap">
-        <div class="section-head"><h2>Co dělá trh</h2><p>Veřejně ověřené zdroje ukazují společný směr: běžná platba se automaticky zkouší okamžitě. Tvrdá podmínka „neposílat standardně“ je výjimka, často v rozšířeném nastavení.</p></div>
+        <div class="section-head"><h2>Co dělá trh</h2><p>Veřejně ověřené zdroje ukazují společný směr: běžná platba se automaticky zkouší okamžitě. Tvrdá podmínka „neposílat standardně“ je výjimka, často v rozšířeném nastavení. Tržní mechanismus podporuje hybridní výchozí stav, ale neurčuje vhodné rozložení ovladačů.</p></div>
         <div class="market-grid">
           <article class="market-card"><h3>Komerční banka</h3><p>Výchozí splatnost „Co nejdříve“ se zpracuje okamžitě, pokud je to možné. Pro režim pouze okamžitě uživatel vypne volbu „Když nepůjde odeslat okamžitě, odeslat jako běžnou“.</p><a href="https://www.kb.cz/cs/obcane/ucty/platby-a-hotovostni-sluzby/okamzite-platby" target="_blank" rel="noopener">Oficiální popis KB ↗</a></article>
           <article class="market-card"><h3>Raiffeisenbank</h3><p>Platby splňující podmínky banka posílá okamžitě. Při neúspěchu automaticky standardně; výjimka je v rozšířeném nastavení.</p><a href="https://www.rb.cz/informacni-servis/platebni-styk/tuzemske-platby/okamzite-platby" target="_blank" rel="noopener">Oficiální popis RB ↗</a></article>
@@ -205,35 +206,32 @@
 
   <dialog id="lightbox"><div class="lightbox-inner"><img id="lightbox-image" alt="Zvětšený návrh obrazovky"><button class="close" id="lightbox-close" type="button" aria-label="Zavřít">×</button></div></dialog>
   <script>
-    const storageKey='okamzite_platby_review_state';
+    const storageKey='okamzite_platby_review_state_v2';
     const saved=JSON.parse(localStorage.getItem(storageKey)||'{}');
     let timing=saved.timing||'asap';
-    let instantOnly=Boolean(saved.instantOnly);
     let paymentDate=saved.paymentDate||'2026-08-15';
     const field=document.getElementById('timing-field');
     const sheet=document.getElementById('timing-sheet');
     const timingValue=document.getElementById('timing-value');
     const timingHelp=document.getElementById('timing-help');
-    const safetyRow=document.getElementById('safety-row');
-    const instantSwitch=document.getElementById('instant-switch');
     const dateBox=document.getElementById('date-box');
     const dateInput=document.getElementById('payment-date');
     const options=[...document.querySelectorAll('.option[data-timing]')];
     function formatDate(value){const [y,m,d]=value.split('-');return `${Number(d)}. ${Number(m)}. ${y}`}
-    function persist(){localStorage.setItem(storageKey,JSON.stringify({timing,instantOnly,paymentDate}))}
+    function persist(){localStorage.setItem(storageKey,JSON.stringify({timing,paymentDate}))}
     function render(){
       options.forEach(o=>o.classList.toggle('selected',o.dataset.timing===timing));
       dateBox.classList.toggle('show',timing==='later');
       dateInput.value=paymentDate;
-      instantSwitch.setAttribute('aria-checked',String(instantOnly));
       if(timing==='later'){
         timingValue.textContent=formatDate(paymentDate);
         timingHelp.textContent='Platbu odešleme ve zvolený den.';
-        safetyRow.hidden=true;
+      }else if(timing==='instant'){
+        timingValue.textContent='Pouze okamžitě';
+        timingHelp.textContent='Když to nepůjde během několika sekund, platbu neodešleme.';
       }else{
-        timingValue.textContent=instantOnly?'Pouze okamžitě':'Co nejdříve';
-        timingHelp.textContent=instantOnly?'Pokud okamžité odeslání nepůjde, platbu neprovedeme.':'Zkusíme ji poslat okamžitě. Pokud to nepůjde, odešleme ji standardně.';
-        safetyRow.hidden=false;
+        timingValue.textContent='Co nejdříve';
+        timingHelp.textContent='Nejdřív ji zkusíme poslat okamžitě. Když to nepůjde, odešleme ji standardně.';
       }
       persist();
     }
@@ -243,7 +241,6 @@
     sheet.addEventListener('click',e=>{if(e.target===sheet)closeSheet()});
     options.forEach(option=>option.addEventListener('click',()=>{timing=option.dataset.timing;render()}));
     dateInput.addEventListener('change',()=>{paymentDate=dateInput.value;render()});
-    instantSwitch.addEventListener('click',()=>{instantOnly=!instantOnly;render()});
     document.getElementById('sheet-done').addEventListener('click',closeSheet);
     document.addEventListener('keydown',e=>{if(e.key==='Escape'&&sheet.classList.contains('open'))closeSheet()});
     render();

diff --git a/index.html b/index.html
@@ -475,7 +475,7 @@
           </svg>
         </a>
         <div class="divider file-divider"></div>
-        <a class="item" href="Platby/Okam%C5%BEit%C3%A9%20platby/index.html?k=4c129f69f551195cbc5e8b57cc5a0975b6efa1e8510573524d11df03c7d010c6" data-name="Okamžité platby" data-modified="1785479567000">
+        <a class="item" href="Platby/Okam%C5%BEit%C3%A9%20platby/index.html?k=4c129f69f551195cbc5e8b57cc5a0975b6efa1e8510573524d11df03c7d010c6" data-name="Okamžité platby" data-modified="1785480163000">
           <span class="item-name">Okamžité platby</span>
           <span class="badge-new" style="display:none">Nová verze</span>
           <svg class="chevron" viewBox="0 0 24 24" fill="none" stroke="currentColor" stroke-width="2" stroke-linecap="round" stroke-linejoin="round">
